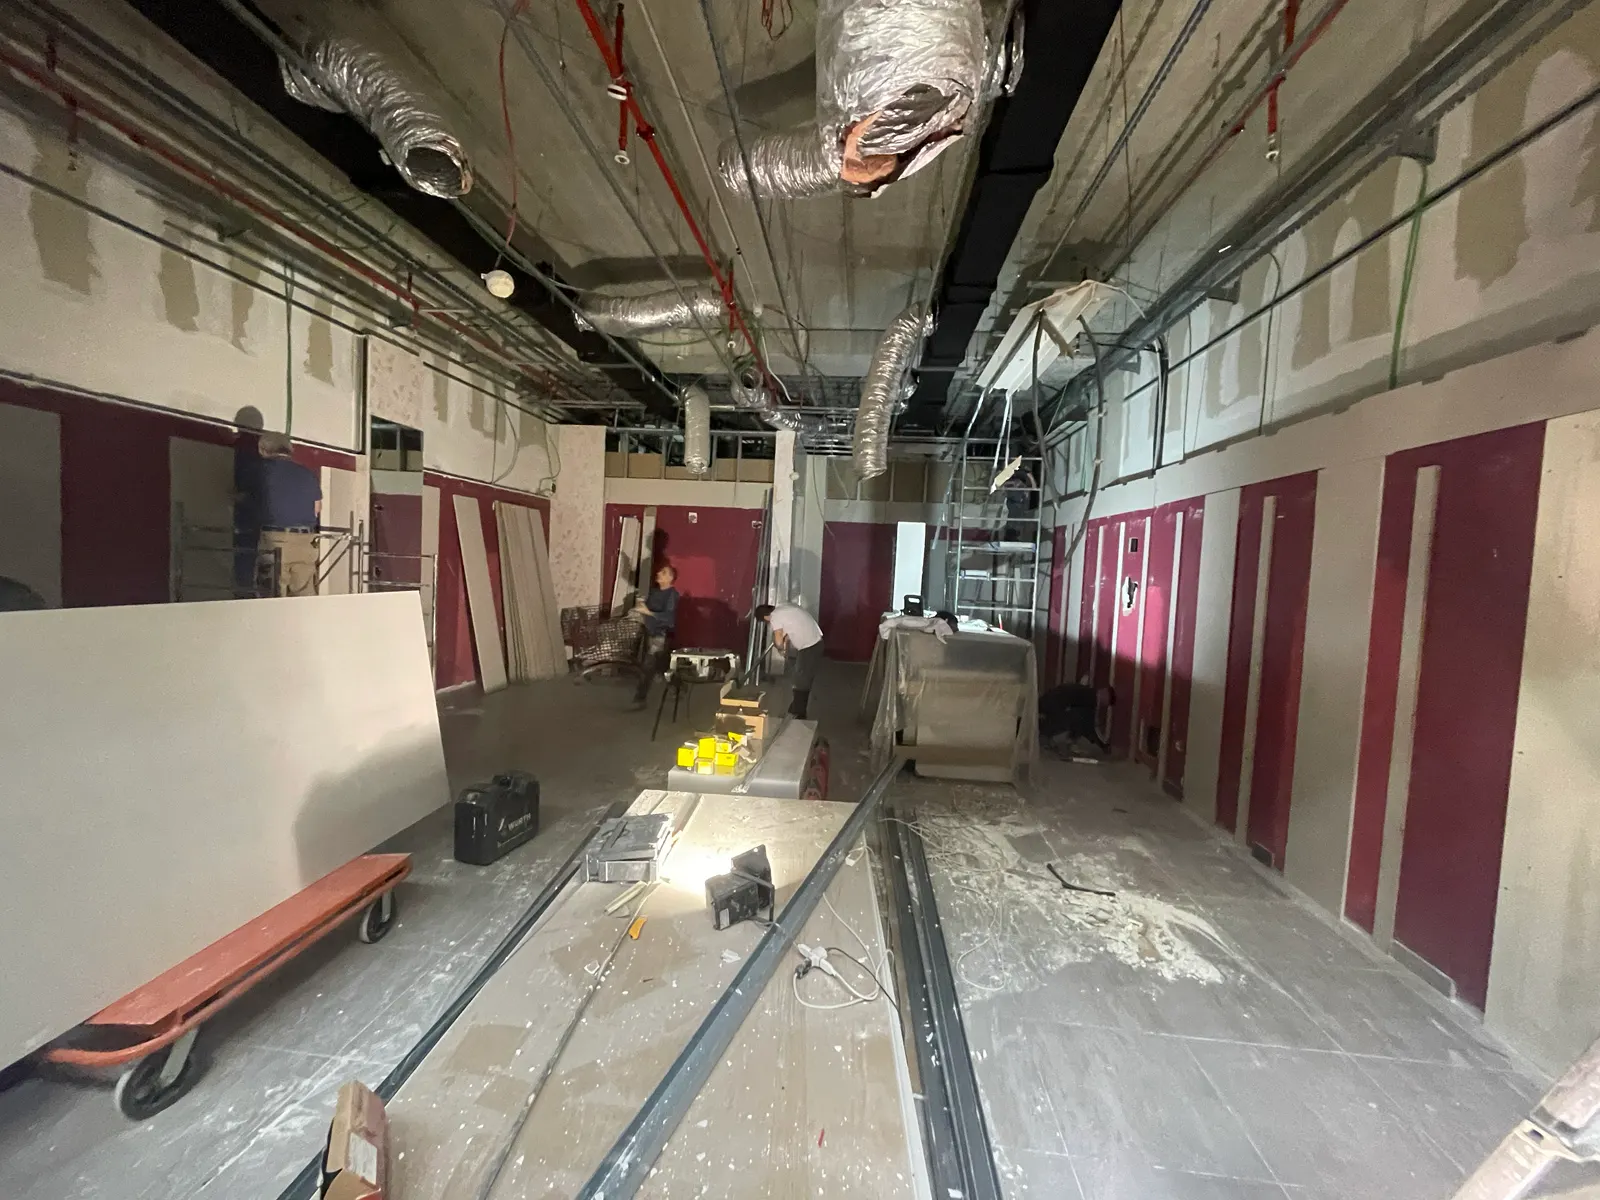
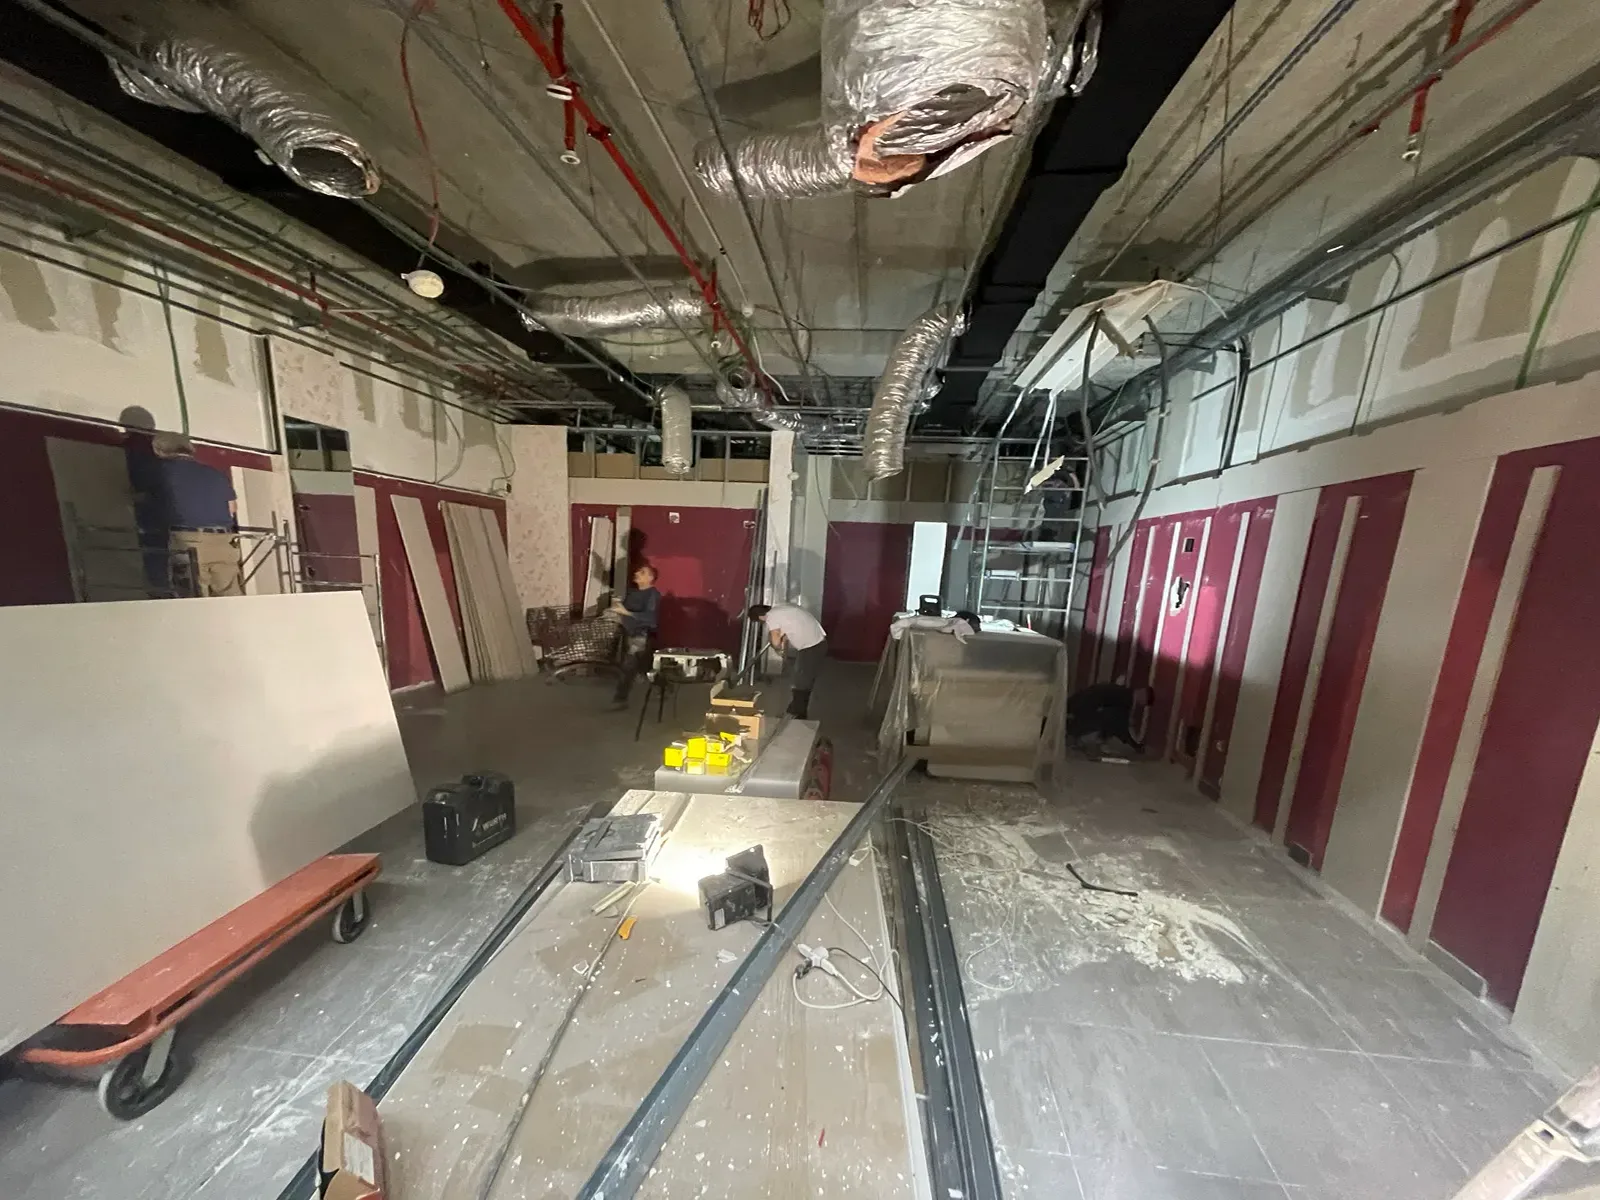
Aggiorna pagina Come lavoriamo e fix visivi finali

diff --git a/assets/css/come-lavoro-page.css b/assets/css/come-lavoro-page.css
@@ -12,7 +12,7 @@ html:has(.method-page),.method-page{overflow-x:clip}.method-page{background:var(
 .method-hero .intro-number{color:var(--color-accent);font:500 var(--text-sm)/1 var(--font-body);letter-spacing:.12em;text-transform:uppercase}
 .method-hero h1{max-width:11ch;margin:0;font-style:normal;overflow-wrap:anywhere}
 .method-hero h1 em{color:var(--color-accent);font-style:normal}.method-hero .intro-copy{grid-column:2;max-width:62ch}.method-hero .lead{color:var(--color-paper-faint)}
-.method-manifesto{display:grid;grid-template-columns:minmax(0,.8fr) minmax(0,1.2fr);gap:clamp(3rem,9vw,10rem);padding-block:clamp(7rem,12vw,13rem)}
+.method-manifesto{display:grid;grid-template-columns:minmax(0,.8fr) minmax(0,1.2fr);gap:clamp(3rem,9vw,10rem);padding-block:clamp(6rem,10vw,10rem)}
 .method-manifesto .split{display:contents}.method-manifesto h2 em{color:var(--color-accent-ink);font-style:normal}.method-manifesto .copy{max-width:62ch}
 .method-process{padding:clamp(6rem,10vw,11rem) 0;background:var(--color-ink);color:var(--color-paper)}
 .method-process>.section-head{padding-inline:7vw;margin-block-end:clamp(4rem,8vw,8rem)}.method-process h2{max-width:12ch;margin:0;font-style:normal}.method-process-layout{display:grid;grid-template-columns:minmax(0,1.08fr) minmax(360px,.92fr);align-items:start}
@@ -22,7 +22,7 @@ html:has(.method-page),.method-page{overflow-x:clip}.method-page{background:var(
 .method-progress{position:absolute;inset:auto var(--space-xl) var(--space-xl);display:grid;grid-template-columns:auto minmax(4rem,1fr) auto;align-items:center;gap:var(--space-md);color:var(--color-paper);font:500 var(--text-sm)/1 var(--font-body);font-variant-numeric:tabular-nums}
 .method-progress i{height:var(--rule-hairline);background:var(--color-stage-rule)}
 .method-process .method-list{display:block;background:transparent}
-.method-process .method-step{display:grid;grid-template-columns:4rem minmax(0,1fr);gap:var(--space-lg);min-height:72svh;padding:clamp(4rem,8vw,8rem) clamp(1.25rem,6vw,7rem);border-block-start:var(--rule-hairline) solid var(--color-stage-rule);opacity:.38;transition:opacity var(--dur-long) var(--ease-out)}
+.method-process .method-step{display:grid;grid-template-columns:4rem minmax(0,1fr);gap:var(--space-lg);min-height:72svh;align-content:center;padding:clamp(4rem,8vw,8rem) clamp(1.25rem,6vw,7rem);border-block-start:var(--rule-hairline) solid var(--color-stage-rule);opacity:.38;transition:opacity var(--dur-long) var(--ease-out)}
 .method-process .method-step.is-active{opacity:1}.method-process .method-step>span{color:var(--color-accent);font-variant-numeric:tabular-nums}.method-process .method-step h3{margin:0;color:var(--color-paper);font:400 clamp(2rem,4vw,4.4rem)/1 var(--font-display);letter-spacing:-.025em}.method-process .method-step h3 small{display:block;margin-block-start:var(--space-md);color:var(--color-accent);font:500 var(--text-sm)/1.3 var(--font-body);letter-spacing:.06em;text-transform:uppercase}.method-process .method-step p{grid-column:2;max-width:58ch;margin:0;color:var(--color-paper-faint);font:300 var(--text-md)/1.75 var(--font-body)}
 .method-proof{margin:0;padding:clamp(7rem,12vw,13rem) 7vw;background:var(--color-paper-2);color:var(--color-ink)}.method-proof .display{color:var(--color-ink)}.method-proof .pledge-copy p{color:var(--color-ink-soft)}.method-proof .pledge-copy h2 em{color:var(--color-accent-ink);font-style:normal}.method-proof .pledge-point{border-color:var(--color-rule)}.method-proof .pledge-point h3{color:var(--color-ink)}.method-proof .pledge-point p{color:var(--color-ink-soft)}
 .method-page .full-bleed{min-height:88svh}.method-page .full-bleed-title{max-width:10ch;font-style:normal}.method-page .accordion-button:focus-visible,.method-page .button:focus-visible{outline:3px solid var(--color-focus);outline-offset:3px}

diff --git a/come-lavoro/index.html b/come-lavoro/index.html
@@ -98,7 +98,7 @@
       <div class="split">
         <div>
           <p class="eyebrow reveal">La differenza</p>
-          <h2 class="display small reveal">Competenze diverse.<br>Una direzione precisa.</h2>
+          <h2 class="display small reveal">Competenze diverse.<br>Una direzione <em>precisa.</em></h2>
         </div>
         <div>
           <p class="copy reveal">Ogni intervento richiede competenze specifiche. Iconic definisce il progetto, sceglie le Finiture 3M DI-NOC superficie per superficie e riunisce i professionisti più adatti a realizzarlo.</p>
@@ -109,7 +109,7 @@
 
     <section class="method-process" data-method-process>
       <div class="section-head">
-        <h2 class="display small reveal">Cinque fasi.<br>Una sola regia.</h2>
+        <h2 class="display small reveal">Cinque fasi.<br>Una sola <em>regia.</em></h2>
       </div>
       <div class="method-process-layout">
       <div class="method-visual" aria-hidden="true"><img src="/assets/img/realizzazioni/fiorella-rubino-brindisi-01.webp" alt="" data-method-image><div class="method-progress"><span data-method-current>01</span><i></i><span>05</span></div></div>
@@ -165,8 +165,8 @@
     </section>
 
     <section class="full-bleed" data-parallax>
-      <img loading="lazy" decoding="async" class="full-bleed-fit" src="/assets/img/realizzazioni/fiorella-rubino-brindisi-05.webp" alt="Cantiere coordinato da Iconic nel negozio Fiorella Rubino di Brindisi: impianti, cartongessi e rivestimenti">
-      <h2 class="full-bleed-title reveal">Il cantiere è il nostro mestiere.</h2>
+      <img loading="lazy" decoding="async" class="full-bleed-fit" src="/assets/img/realizzazioni/savhotel-mantegna/savhotel-mantegna-cavedio-impianti.webp" alt="Dettaglio di cantiere Iconic: parete in cartongesso e isolamento durante i lavori">
+      <h2 class="full-bleed-title reveal">Il cantiere è il nostro <em>mestiere.</em></h2>
     </section>
 
     <section class="section">

diff --git a/content/it/come-lavoro.html b/content/it/come-lavoro.html
@@ -54,7 +54,7 @@
       <div class="split">
         <div>
           <p class="eyebrow reveal">La differenza</p>
-          <h2 class="display small reveal">Competenze diverse.<br>Una direzione precisa.</h2>
+          <h2 class="display small reveal">Competenze diverse.<br>Una direzione <em>precisa.</em></h2>
         </div>
         <div>
           <p class="copy reveal">Ogni intervento richiede competenze specifiche. Iconic definisce il progetto, sceglie le Finiture 3M DI-NOC superficie per superficie e riunisce i professionisti più adatti a realizzarlo.</p>
@@ -65,7 +65,7 @@
 
     <section class="method-process" data-method-process>
       <div class="section-head">
-        <h2 class="display small reveal">Cinque fasi.<br>Una sola regia.</h2>
+        <h2 class="display small reveal">Cinque fasi.<br>Una sola <em>regia.</em></h2>
       </div>
       <div class="method-process-layout">
       <div class="method-visual" aria-hidden="true"><img src="/assets/img/realizzazioni/fiorella-rubino-brindisi-01.webp" alt="" data-method-image><div class="method-progress"><span data-method-current>01</span><i></i><span>05</span></div></div>
@@ -121,8 +121,8 @@
     </section>
 
     <section class="full-bleed" data-parallax>
-      <img loading="lazy" decoding="async" class="full-bleed-fit" src="/assets/img/realizzazioni/fiorella-rubino-brindisi-05.webp" alt="Cantiere coordinato da Iconic nel negozio Fiorella Rubino di Brindisi: impianti, cartongessi e rivestimenti">
-      <h2 class="full-bleed-title reveal">Il cantiere è il nostro mestiere.</h2>
+      <img loading="lazy" decoding="async" class="full-bleed-fit" src="/assets/img/realizzazioni/savhotel-mantegna/savhotel-mantegna-cavedio-impianti.webp" alt="Dettaglio di cantiere Iconic: parete in cartongesso e isolamento durante i lavori">
+      <h2 class="full-bleed-title reveal">Il cantiere è il nostro <em>mestiere.</em></h2>
     </section>
 
     <section class="section">

diff --git a/assets/css/project-stage.css b/assets/css/project-stage.css
@@ -68,7 +68,7 @@
 .project-stage-media img.is-active { opacity: 1; }
 .project-stage-shade {
   z-index: -1;
-  background: linear-gradient(110deg, var(--color-stage-shade) 0%, var(--color-stage-shade) 36%, var(--color-stage-clear) 72%);
+  background: linear-gradient(250deg, var(--color-stage-shade) 0%, var(--color-stage-shade) 36%, var(--color-stage-clear) 72%);
 }
 
 .project-stage-list {
@@ -147,19 +147,22 @@
   z-index: 5;
   display: grid;
   place-items: center;
-  width: 5.5rem;
-  height: 5.5rem;
+  width: 5.2rem;
+  height: 5.2rem;
   border-radius: 50%;
-  color: var(--color-ink);
-  background: var(--color-map-marker);
-  font: 600 var(--text-xs) / 1 var(--font-body);
+  border: 1px solid rgba(255,255,255,.7);
+  background: rgba(16,16,14,.28);
+  backdrop-filter: blur(6px);
+  color: var(--paper, #fff);
+  font: 500 .62rem / 1 var(--sans);
+  letter-spacing: .16em;
   text-transform: uppercase;
   pointer-events: none;
   opacity: 0;
-  transform: translate3d(var(--cursor-x, 0), var(--cursor-y, 0), 0);
-  transition: opacity var(--dur-micro) var(--ease-out);
+  transform: translate3d(var(--cursor-x, 0), var(--cursor-y, 0), 0) scale(.82);
+  transition: opacity .35s cubic-bezier(.2,.7,.2,1), transform .35s cubic-bezier(.2,.7,.2,1);
 }
-.project-stage.is-pointer-active .project-stage-cursor { opacity: 1; }
+.project-stage.is-pointer-active .project-stage-cursor { opacity: 1; transform: translate3d(var(--cursor-x, 0), var(--cursor-y, 0), 0) scale(1); }
 
 @media (max-width: 47.99rem) {
   .project-stage-section { margin-block-start: 0; }
@@ -197,3 +200,6 @@
   .project-stage-media img { transform: none; }
   .project-stage-cursor { display: none; }
 }
+
+html { scroll-snap-type: y proximity; }
+.project-stage-section { scroll-snap-align: start; scroll-snap-stop: always; }

diff --git a/assets/css/styles.css b/assets/css/styles.css
@@ -307,7 +307,7 @@ button, input, textarea, select { font: inherit; }
   transition: none;
 }
 .display.small { font-size: clamp(3.2rem, 5.5vw, 6rem); }
-.display em, .serif em { color: inherit; font-style: normal; }
+.display em, .serif em { color: var(--bronze); font-style: normal; }
 .home-hero .display em,
 .cta-section .display em,
 .hero-photo .display em,
@@ -399,7 +399,7 @@ button, input, textarea, select { font: inherit; }
 .full-bleed img.full-bleed-fit {
   height: 115%;
   object-fit: cover;
-  object-position: center bottom;
+  object-position: center center;
   background: transparent;
 }
 .full-bleed-title {
@@ -1679,7 +1679,7 @@ footer a:focus-visible {
   display: grid;
   gap: .35rem;
 }
-.pledge-point h3 { margin: 0; font: 400 1.25rem var(--serif); letter-spacing: .02em; }
+.pledge-point h3 { margin: 0; font: 400 clamp(1.4rem, 1.8vw, 1.7rem) var(--serif); letter-spacing: .02em; }
 .pledge-point p { margin: 0; font-size: .9rem; font-weight: 300; color: rgba(242,240,235,.72); line-height: 1.6; }
 
 /* --- Metodo / Come lavoro --- */

diff --git a/content/it/restyling.html b/content/it/restyling.html
@@ -106,7 +106,7 @@
     </section>
 
     <section class="full-bleed" data-parallax>
-      <img loading="lazy" decoding="async" class="full-bleed-fit" src="/assets/img/realizzazioni/savhotel-mantegna/savhotel-mantegna-salotto-parete.webp" alt="Parete rivestita con Finitura 3M DI-NOC effetto materico, salotto Hotel Mantegna Padova">
+      <img loading="lazy" decoding="async" class="full-bleed-fit" src="/assets/img/realizzazioni/savhotel-mantegna-salotto-parete.webp" alt="Parete rivestita con Finitura 3M DI-NOC effetto materico, salotto Hotel Mantegna Padova">
       <h2 class="full-bleed-title reveal">Semplicemente si riveste.</h2>
     </section>
 

diff --git a/restyling/index.html b/restyling/index.html
@@ -167,7 +167,7 @@
     </section>
 
     <section class="full-bleed" data-parallax>
-      <img loading="lazy" decoding="async" class="full-bleed-fit" src="/assets/img/realizzazioni/savhotel-mantegna/savhotel-mantegna-salotto-parete.webp" alt="Parete rivestita con Finitura 3M DI-NOC effetto materico, salotto Hotel Mantegna Padova">
+      <img loading="lazy" decoding="async" class="full-bleed-fit" src="/assets/img/realizzazioni/savhotel-mantegna-salotto-parete.webp" alt="Parete rivestita con Finitura 3M DI-NOC effetto materico, salotto Hotel Mantegna Padova">
       <h2 class="full-bleed-title reveal">Semplicemente si riveste.</h2>
     </section>
 
